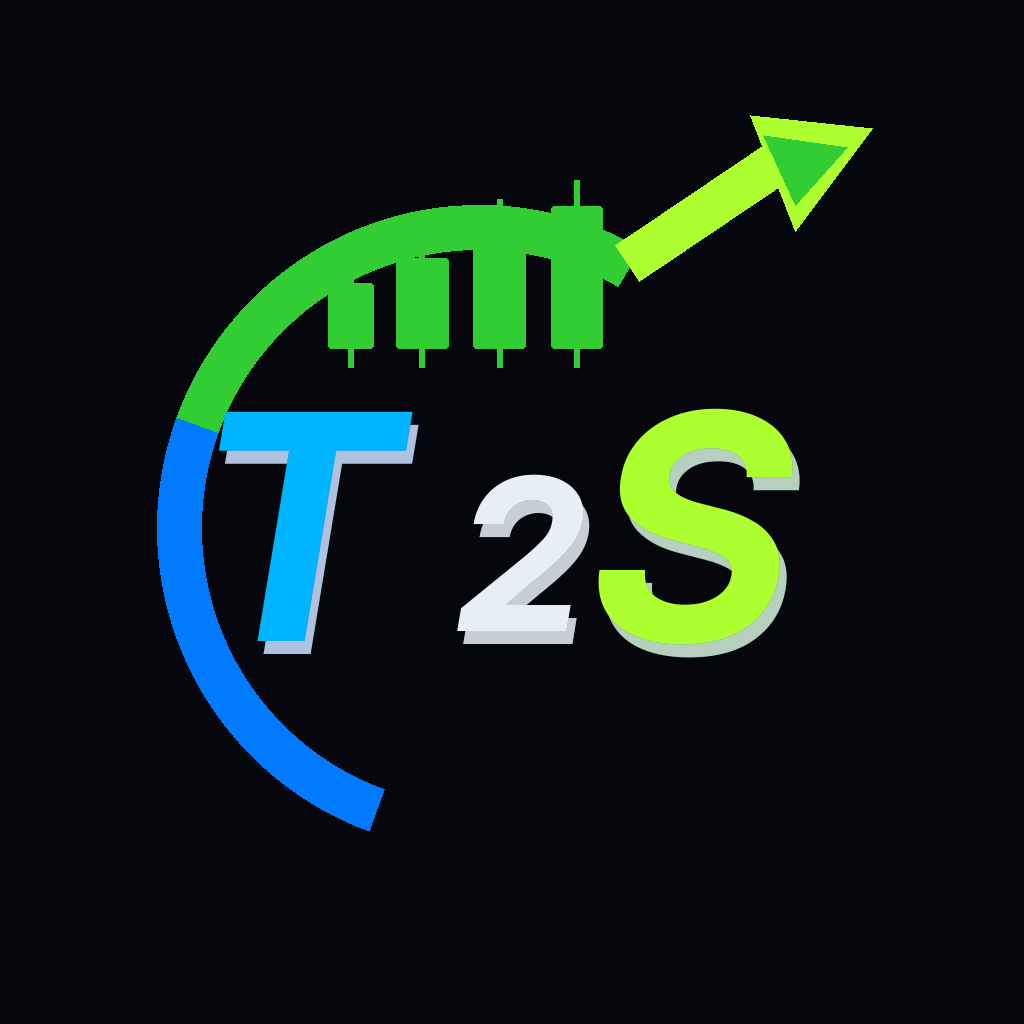
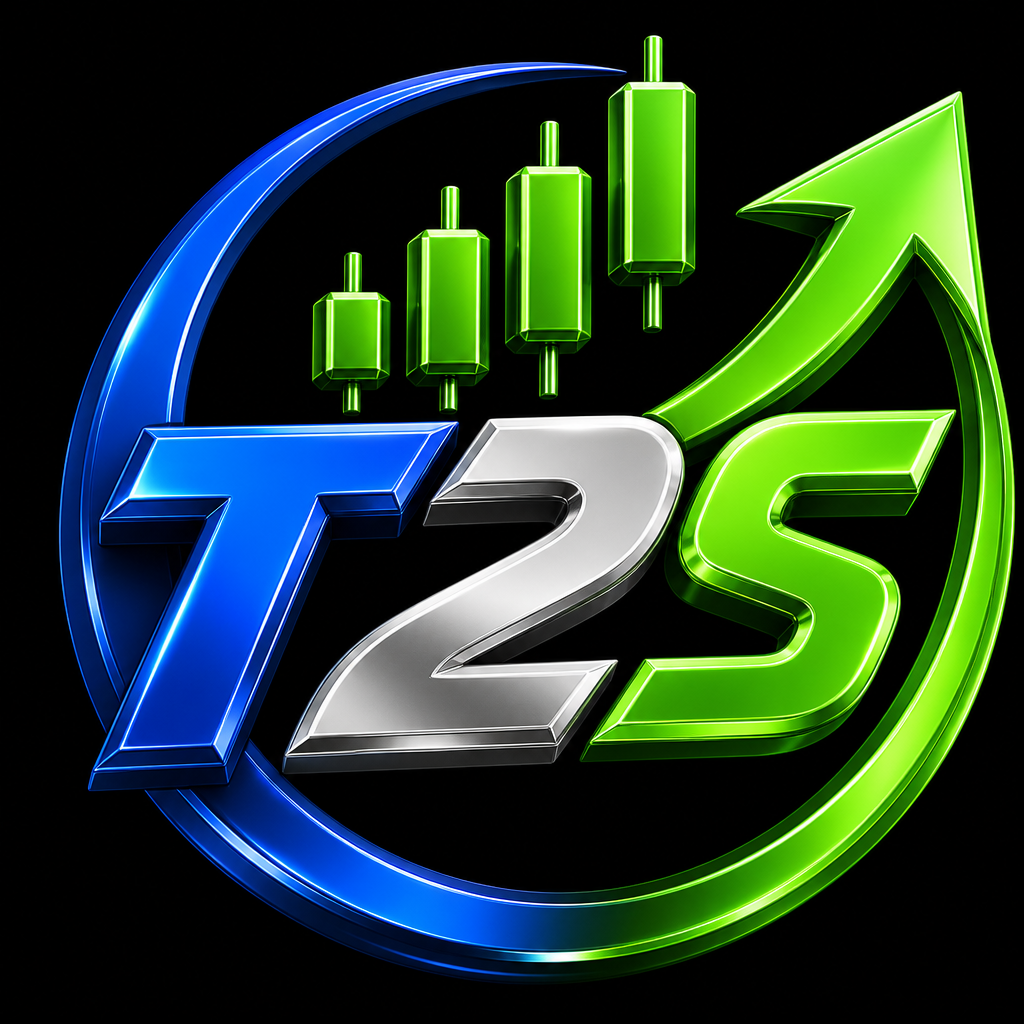
Use the 3D Trade 2 Smart lockup image instead of a redraw
Login shows the full metallic T2S mark. Header, sidebar, and app icons use the matching emblem so the brand matches the artwork.

diff --git a/src/components/BrandMark.tsx b/src/components/BrandMark.tsx
@@ -1,182 +1,45 @@
-import { useId } from "react";
-
-/** stacked — official lockup; horizontal — header; emblem — sidebar / tab */
-export type BrandVariant = "stacked" | "horizontal" | "emblem";
-
 type Props = {
-  variant?: BrandVariant;
+  variant?: "stacked" | "horizontal" | "emblem";
   size?: "sm" | "md" | "lg";
   theme?: "dark" | "light";
   className?: string;
   showWordmark?: "always" | "responsive";
-  plate?: boolean;
 };
 
-const BLUE = "#2F7BFF";
-const GREEN = "#22C55E";
-const LIME = "#9AFF3D";
-const WHITE = "#F4F7FB";
+const lockup = "/t2s-lockup.png";
+const emblem = "/t2s-emblem.png";
+
+const emblemSize = { sm: "h-8 w-8", md: "h-10 w-10", lg: "h-12 w-12" };
+const lockupSize = { sm: "w-[200px]", md: "w-[260px]", lg: "w-[320px]" };
 
 export function BrandMark({
   variant = "stacked",
   size = "md",
-  theme = "dark",
   className = "",
   showWordmark = "responsive",
 }: Props) {
-  const uid = useId().replace(/:/g, "");
-
-  if (variant === "emblem") {
-    const box = size === "sm" ? "h-8 w-8" : size === "lg" ? "h-12 w-12" : "h-10 w-10";
+  if (variant === "stacked") {
     return (
-      <span className={className}>
-        <EmblemSvg id={uid} className={box} />
-      </span>
+      <img
+        src={lockup}
+        alt="Trade 2 Smart"
+        className={`block h-auto rounded-[28px] shadow-[0_18px_40px_rgba(0,0,0,0.35)] ${lockupSize[size]} ${className}`}
+      />
     );
   }
 
-  if (variant === "horizontal") {
-    const nameSize = size === "sm" ? "text-[11px]" : size === "lg" ? "text-[16px]" : "text-[13px]";
-    const trade = theme === "light" ? "#111827" : WHITE;
-    const box = size === "sm" ? "h-9 w-9" : size === "lg" ? "h-12 w-12" : "h-10 w-10";
-    return (
-      <span className={`inline-flex items-center gap-2.5 ${className}`}>
-        <EmblemSvg id={uid} className={`shrink-0 ${box}`} />
+  return (
+    <span className={`inline-flex items-center gap-2.5 ${className}`}>
+      <img src={emblem} alt="" className={`shrink-0 rounded-xl object-cover ${emblemSize[size]}`} />
+      {variant === "horizontal" ? (
         <span className={`min-w-0 leading-tight ${showWordmark === "always" ? "block" : "hidden sm:block"}`}>
-          <span className={`block font-extrabold uppercase tracking-[0.16em] ${nameSize}`}>
-            <span style={{ color: trade }}>TRADE </span>
-            <span style={{ color: BLUE }}>2 </span>
-            <span style={{ color: GREEN }}>SMART</span>
+          <span className={`block font-extrabold uppercase tracking-[0.16em] ${size === "lg" ? "text-[16px]" : "text-[13px]"}`}>
+            <span className="text-slate-900 dark:text-white">TRADE </span>
+            <span className="text-[#2F7BFF]">2 </span>
+            <span className="text-[#22C55E]">SMART</span>
           </span>
         </span>
-      </span>
-    );
-  }
-
-  const box = size === "sm" ? "w-[220px]" : size === "lg" ? "w-[320px]" : "w-[280px]";
-  return <LockupSvg id={uid} className={`${box} ${className}`} />;
-}
-
-function LockupSvg({ id, className }: { id: string; className?: string }) {
-  return (
-    <svg viewBox="0 0 400 430" className={className} role="img" aria-label="Trade 2 Smart">
-      <rect width="400" height="430" rx="48" fill="#05070c" />
-      <g transform="translate(40 8)">{EmblemArt(id)}</g>
-      <text
-        x="200"
-        y="338"
-        textAnchor="middle"
-        fontFamily="Inter, Arial Black, sans-serif"
-        fontStyle="italic"
-        fontWeight="800"
-        fontSize="28"
-        letterSpacing="3"
-      >
-        <tspan fill={WHITE}>TRADE </tspan>
-        <tspan fill={BLUE}>2 </tspan>
-        <tspan fill={GREEN}>SMART</tspan>
-      </text>
-      <text x="78" y="384" fill={BLUE} fontFamily="Inter, Arial, sans-serif" fontWeight="800" fontSize="16">
-        //
-      </text>
-      <text
-        x="200"
-        y="384"
-        textAnchor="middle"
-        fill={WHITE}
-        fontFamily="Inter, Arial, sans-serif"
-        fontWeight="600"
-        fontSize="11"
-        letterSpacing="2.2"
-      >
-        INTELLIGENCE BEHIND EVERY TRADE.
-      </text>
-      <text x="308" y="384" fill={GREEN} fontFamily="Inter, Arial, sans-serif" fontWeight="800" fontSize="16">
-        //
-      </text>
-    </svg>
-  );
-}
-
-function EmblemSvg({ id, className }: { id: string; className?: string }) {
-  return (
-    <svg viewBox="0 0 320 300" className={className} role="img" aria-label="T2S">
-      {EmblemArt(id)}
-    </svg>
-  );
-}
-
-function EmblemArt(id: string) {
-  const ring = `${id}-ring`;
-  const tFill = `${id}-t`;
-  const twoFill = `${id}-two`;
-  const sFill = `${id}-s`;
-  const shadow = `${id}-shadow`;
-  return (
-    <>
-      <defs>
-        <linearGradient id={ring} x1="0" y1="1" x2="1" y2="0">
-          <stop offset="0%" stopColor="#1D4ED8" />
-          <stop offset="45%" stopColor={BLUE} />
-          <stop offset="100%" stopColor={LIME} />
-        </linearGradient>
-        <linearGradient id={tFill} x1="0.15" y1="0" x2="0.8" y2="1">
-          <stop offset="0%" stopColor="#7DD3FF" />
-          <stop offset="55%" stopColor={BLUE} />
-          <stop offset="100%" stopColor="#1D4ED8" />
-        </linearGradient>
-        <linearGradient id={twoFill} x1="0" y1="0" x2="0.2" y2="1">
-          <stop offset="0%" stopColor="#FFFFFF" />
-          <stop offset="40%" stopColor="#E2E8F0" />
-          <stop offset="100%" stopColor="#94A3B8" />
-        </linearGradient>
-        <linearGradient id={sFill} x1="0.15" y1="0" x2="0.8" y2="1">
-          <stop offset="0%" stopColor="#E8FF7A" />
-          <stop offset="45%" stopColor={LIME} />
-          <stop offset="100%" stopColor="#16A34A" />
-        </linearGradient>
-        <filter id={shadow} x="-15%" y="-15%" width="130%" height="140%">
-          <feDropShadow dx="3" dy="5" stdDeviation="2" floodColor="#000" floodOpacity="0.55" />
-        </filter>
-      </defs>
-
-      <path
-        d="M 62 214 A 118 118 0 1 1 258 52"
-        fill="none"
-        stroke={`url(#${ring})`}
-        strokeWidth="16"
-        strokeLinecap="round"
-      />
-      <path d="M246 62 L292 18" stroke={LIME} strokeWidth="16" strokeLinecap="round" />
-      <polygon points="272,4 312,12 284,44" fill={LIME} />
-
-      <g fill={GREEN}>
-        <line x1="112" y1="48" x2="112" y2="92" stroke={GREEN} strokeWidth="3" />
-        <rect x="104" y="60" width="16" height="24" rx="2" />
-        <line x1="140" y1="38" x2="140" y2="92" stroke={GREEN} strokeWidth="3" />
-        <rect x="131" y="50" width="18" height="34" rx="2" />
-        <line x1="170" y1="28" x2="170" y2="92" stroke={GREEN} strokeWidth="3" />
-        <rect x="161" y="40" width="18" height="44" rx="2" />
-        <line x1="200" y1="22" x2="200" y2="92" stroke={GREEN} strokeWidth="3" />
-        <rect x="191" y="32" width="18" height="52" rx="2" />
-      </g>
-
-      <g
-        filter={`url(#${shadow})`}
-        fontFamily="Inter, Arial Black, sans-serif"
-        fontStyle="italic"
-        fontWeight="800"
-      >
-        <text x="58" y="198" fontSize="108" fill={`url(#${tFill})`}>
-          T
-        </text>
-        <text x="148" y="190" fontSize="74" fill={`url(#${twoFill})`}>
-          2
-        </text>
-        <text x="198" y="198" fontSize="108" fill={`url(#${sFill})`}>
-          S
-        </text>
-      </g>
-    </>
+      ) : null}
+    </span>
   );
 }

diff --git a/mobile/src/components/BrandMark.tsx b/mobile/src/components/BrandMark.tsx
@@ -1,4 +1,7 @@
-import { StyleSheet, Text, View } from "react-native";
+import { Image, StyleSheet, Text, View } from "react-native";
+
+const lockup = require("../../assets/t2s-lockup.png");
+const emblem = require("../../assets/t2s-emblem.png");
 
 export function BrandMark({
   variant = "stacked",
@@ -10,13 +13,13 @@ export function BrandMark({
   const trade = theme === "light" ? "#111827" : "#f4f7fb";
 
   if (variant === "emblem") {
-    return <Letters size={40} />;
+    return <Image source={emblem} style={styles.emblem} />;
   }
 
   if (variant === "horizontal") {
     return (
       <View style={styles.row}>
-        <Letters size={40} />
+        <Image source={emblem} style={styles.emblem} />
         <Text style={styles.wordSm}>
           <Text style={{ color: trade }}>TRADE </Text>
           <Text style={styles.two}>2 </Text>
@@ -26,52 +29,14 @@ export function BrandMark({
     );
   }
 
-  return (
-    <View style={styles.plate}>
-      <Letters size={88} />
-      <Text style={styles.word}>
-        <Text style={styles.white}>TRADE </Text>
-        <Text style={styles.two}>2 </Text>
-        <Text style={styles.s}>SMART</Text>
-      </Text>
-      <View style={styles.tagRow}>
-        <Text style={styles.slashBlue}>{"//"}</Text>
-        <Text style={styles.tag}>INTELLIGENCE BEHIND EVERY TRADE.</Text>
-        <Text style={styles.slashGreen}>{"//"}</Text>
-      </View>
-    </View>
-  );
-}
-
-function Letters({ size }: { size: number }) {
-  return (
-    <Text style={{ fontSize: size * 0.5, fontWeight: "800", fontStyle: "italic", letterSpacing: -3 }}>
-      <Text style={{ color: "#2F7BFF" }}>T</Text>
-      <Text style={{ color: "#E8EEF5" }}>2</Text>
-      <Text style={{ color: "#22C55E" }}>S</Text>
-    </Text>
-  );
+  return <Image source={lockup} style={styles.lockup} resizeMode="contain" />;
 }
 
 const styles = StyleSheet.create({
-  plate: {
-    alignItems: "center",
-    justifyContent: "center",
-    marginBottom: 16,
-    backgroundColor: "#05070c",
-    borderRadius: 32,
-    paddingVertical: 24,
-    paddingHorizontal: 16,
-    width: "100%",
-  },
+  lockup: { width: "100%", maxWidth: 320, height: 320, borderRadius: 28, marginBottom: 16 },
+  emblem: { width: 40, height: 40, borderRadius: 10 },
   row: { flexDirection: "row", alignItems: "center", gap: 10 },
   two: { color: "#2F7BFF" },
   s: { color: "#22C55E" },
-  white: { color: "#F4F7FB" },
-  word: { marginTop: 8, fontSize: 18, fontWeight: "800", fontStyle: "italic", letterSpacing: 3 },
   wordSm: { fontSize: 13, fontWeight: "800", letterSpacing: 1.6 },
-  tagRow: { flexDirection: "row", alignItems: "center", gap: 8, marginTop: 12 },
-  tag: { fontSize: 9, fontWeight: "600", letterSpacing: 1.1, color: "#ffffff" },
-  slashBlue: { color: "#2F7BFF", fontWeight: "800", letterSpacing: -1 },
-  slashGreen: { color: "#22C55E", fontWeight: "800", letterSpacing: -1 },
 });

diff --git a/src/login.css b/src/login.css
@@ -312,25 +312,6 @@
   color: #1e3a8a;
 }
 
-.t2s-logo-plate {
-  display: flex;
-  justify-content: center;
-  align-items: center;
-  width: 100%;
-  max-width: 340px;
-  aspect-ratio: 1;
-  padding: 28px 22px 24px;
-  border-radius: 36px;
-  background: #05070c;
-  box-shadow: 0 18px 40px rgba(0, 0, 0, 0.28);
-}
-
-.t2s-logo-plate-sm {
-  max-width: 220px;
-  padding: 16px 12px 14px;
-  border-radius: 24px;
-}
-
 .t2s-hero-art {
   width: min(100%, 360px);
   height: auto;

diff --git a/index.html b/index.html
@@ -2,7 +2,7 @@
 <html lang="en">
   <head>
     <meta charset="UTF-8" />
-    <link rel="icon" type="image/svg+xml" href="/favicon.svg" />
+    <link rel="icon" type="image/png" href="/t2s-emblem.png" />
     <link rel="apple-touch-icon" href="/apple-touch-icon.png" />
     <meta name="viewport" content="width=device-width, initial-scale=1.0" />
     <title>Trade 2 Smart</title>
